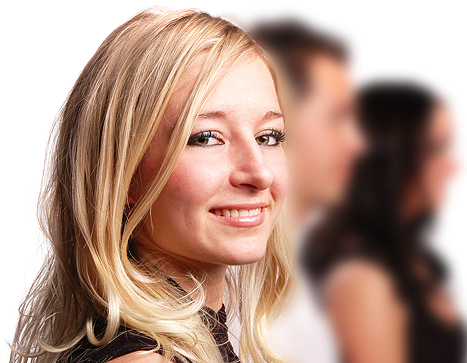
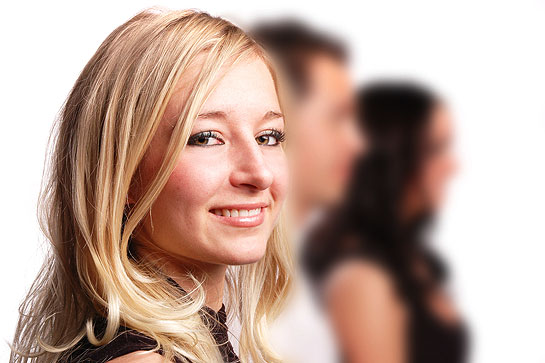
section-2 90%end

diff --git a/CSS/style.css b/CSS/style.css
@@ -15,7 +15,7 @@
 .wrapper{
     display: flex;
     justify-content: center;
-    max-width: 934px;
+    width: 934px;
 
 }
 
@@ -44,7 +44,7 @@
     margin:0 0.3px;
     padding: 5px 0;
     text-align: center;
-        border-radius: 4px 4px 0 0;
+    border-radius: 4px 4px 0 0;
     background: linear-gradient(to top, #111111, #262626);
     color:#ffffff;
     font-family: 'Open Sans', sans-serif;
@@ -99,51 +99,57 @@
 
 }
 /*end header*/
-.section{
+
+/*start section-1*/
+.section-1{
     display: flex;
     justify-content: center;
     padding-top: 5px;
     padding-bottom: 5px;
     background: #cad2d7;
-
-
 }
-
 
 .wrapper-section-1{
     display: flex;
-    justify-content: space-between;
+    justify-content: flex-end;
+    height: 363px;
+    width: 934px;
     border: 1px solid #acb3b7;
     background: #ffffff;
-    border-radius: 5px;
+    background-image: url(../img/girl.jpg);
+    background-repeat: no-repeat;
+    background-size: contain;
+    border-radius: 10px;
 }
-.girl__img{
 
-}
 .slogan{
     display:flex;
     flex-direction: column;
     justify-content: center;
-    width: 470px;
+    width: 432px;
     padding-right: 35px;
     font-size: 25px;
     font-family: sans-serif;
     color:#6b6b6b;
 
+
 }
 .slogan__p-1{
-    text-indent: 112px;
+    display: flex;
+    justify-content: flex-end;
+
 }
 .slogan__p-2{
     display: flex;
     justify-content: flex-end;
+    margin: 0 -5px;
 }
 .slogan__span{
     font-family: sans-serif;
     text-transform: uppercase;
     font-style: italic;
     color: #ec8c04;
-    margin-left: 5px;
+    margin: 0 5px;
 }
 .btn{
     align-self: flex-end;
@@ -157,7 +163,125 @@
     color: #ffffff;
 
 }
-/*start section-1*/
-
-
 /*end section-1*/
+
+/*start section-2*/
+.section-2{
+    border-top: 1px solid #fff;
+    background: linear-gradient(to top, #fefefe, #e6eaec);
+
+}
+.wrapper-section-2{
+    margin: 0 auto;
+
+}
+
+.about{
+    display: flex;
+    justify-content: space-around;
+}
+.shape{
+    margin: 12px 0 20px;
+    border: 1px solid #c3c6c8;
+    border-radius: 5px;
+    background: linear-gradient(to top, #f3f3f3 0%,#fdfdfd 75%, #fff 100%);
+    width: 32.77%;
+
+}
+
+.shape__wriper{
+    width: 83.34%;
+    margin: 0 auto;
+    position: relative;
+}
+
+
+.shape__title{
+    font-family: 'Open Sans', sans-serif;
+    color: #353535;
+    border-bottom: 1px dotted #9b9a99;
+    padding: 20px 0 14px 60px;
+}
+
+.shape__title_logo-1:before{
+    position: absolute;
+    left: 3px;
+    top: -2px;
+    display: block;
+    content: "";
+    background-image: url("../img/about-img-1.png");
+    background-repeat: no-repeat;
+    width: 49px;
+    height: 58px;
+
+}
+.shape__title_logo-2:before{
+    position: absolute;
+    left: 3px;
+    top: -2px;
+    display: block;
+    content: "";
+    background-image: url("../img/about-img-2.png");
+    background-repeat: no-repeat;
+    width: 49px;
+    height: 58px;
+
+}
+.shape__title_logo-3:before{
+    position: absolute;
+    left: 3px;
+    top: 1px;
+    display: block;
+    content: "";
+    background-image: url("../img/about-img-3.png");
+    background-repeat: no-repeat;
+    width: 49px;
+    height: 58px;
+
+}
+
+
+.shape__image-1,
+.shape__image-2,
+.shape__image-3{
+    width: 100%;
+    height: 124px;
+    border: 1px solid #d6d6d6;
+    border-radius: 5px;
+    padding: 1px;
+    background: #fff;
+    background-repeat: no-repeat;
+    background-position: center center;
+    margin-top: 20px;
+
+}
+.shape__image-1{
+    background-image: url("../img/shape-image-1.jpg");
+}
+.shape__image-2{
+    background-image: url("../img/shape-image-2.jpg");
+}
+.shape__image-3{
+    background-image: url("../img/shape-image-3.jpg");
+}
+.shape__text{
+    font-family: Arial,sans-serif;
+    font-size: 12px;
+    line-height: 17px;
+    color: #808080;
+    margin-top: 20px;
+}
+.shape__btn{
+    font-family: 'Open Sans', sans-serif;
+    font-size: 13px;
+    line-height: 18px;
+    text-transform: uppercase;
+    text-shadow: 1px 1px #030303;
+    color: #fff;
+    background: linear-gradient(to top, #131313, #494949);
+    border: none;
+    border-radius: 4px;
+    padding: 15px 14px 14px 12px;
+    margin: 17px 0 29px;
+}
+/*end section-2*/

diff --git a/index.html b/index.html
@@ -68,12 +68,8 @@
          </div>
     </header>
     <!--section-1-->
-    <section class="section">
+    <section class="section-1">
         <div class="wrapper wrapper-section-1">
-            <div class="girl">
-                <img class="girl__img" src="img/girl.jpg" alt="">
-            </div>
-
             <div class="slogan">
                 <p class="slogan__p-1"><span class="slogan__span">our work is</span> dedicated</p>
                 <p class="slogan__p-2">to the prosperity of our <span class="slogan__span">Clients!</span></p>
@@ -82,7 +78,65 @@
 
         </div>
     </section>
+    <!--section-2-->
+    <section class="section-2">
+        <div class="wrapper wrapper-section-2"  >
+            <div class="about">
+                <div class="shape">
+                    <div class="shape__wriper">
+                        <h2 class="shape__title shape__title_logo-1">
+                            Personal Finance
+                        </h2>
+                        <div class="shape__image-1">
 
+                        </div>
+                        <p class="shape__text">
+                            Wnec porta diam eu massa. Quisque diam  vitae, pede. Donec eget tellus non erat lacinia fermentum. Donec in velit ve...
+                        </p>
+                        <button class="shape__btn">
+                            Read more
+                        </button>
+                    </div>
+                </div>
+                <div class="shape">
+                    <div class="shape__wriper">
+                        <h2 class="shape__title shape__title_logo-2">
+                            Personal Finance
+                        </h2>
+                        <div class="shape__image-2">
+
+                        </div>
+                        <p class="shape__text">
+                            Quisque diam lorem, interdum vitae, dapibus ac, scelerisque vitae, pede. Donec llus non
+                            erat lacinia fermentum. Donec in velit ve...
+                        </p>
+                        <button class="shape__btn">
+                            Read more
+                        </button>
+                    </div>
+
+                </div>
+                <div class="shape">
+                    <div class="shape__wriper">
+                        <h2 class="shape__title shape__title_logo-3">
+                            Personal Finance
+                        </h2>
+                        <div class="shape__image-3">
+
+                        </div>
+                        <p class="shape__text">
+                            Wnec porta diam eu massa. Quisque diam  vitae, pede. Donec eget tellus non erat lacinia fermentum. Donec in velit ve...
+                        </p>
+                        <button class="shape__btn">
+                            Read more
+                        </button>
+                    </div>
+                </div>
+            </div>
+
+        </div>
+
+    </section>
 
 
 
